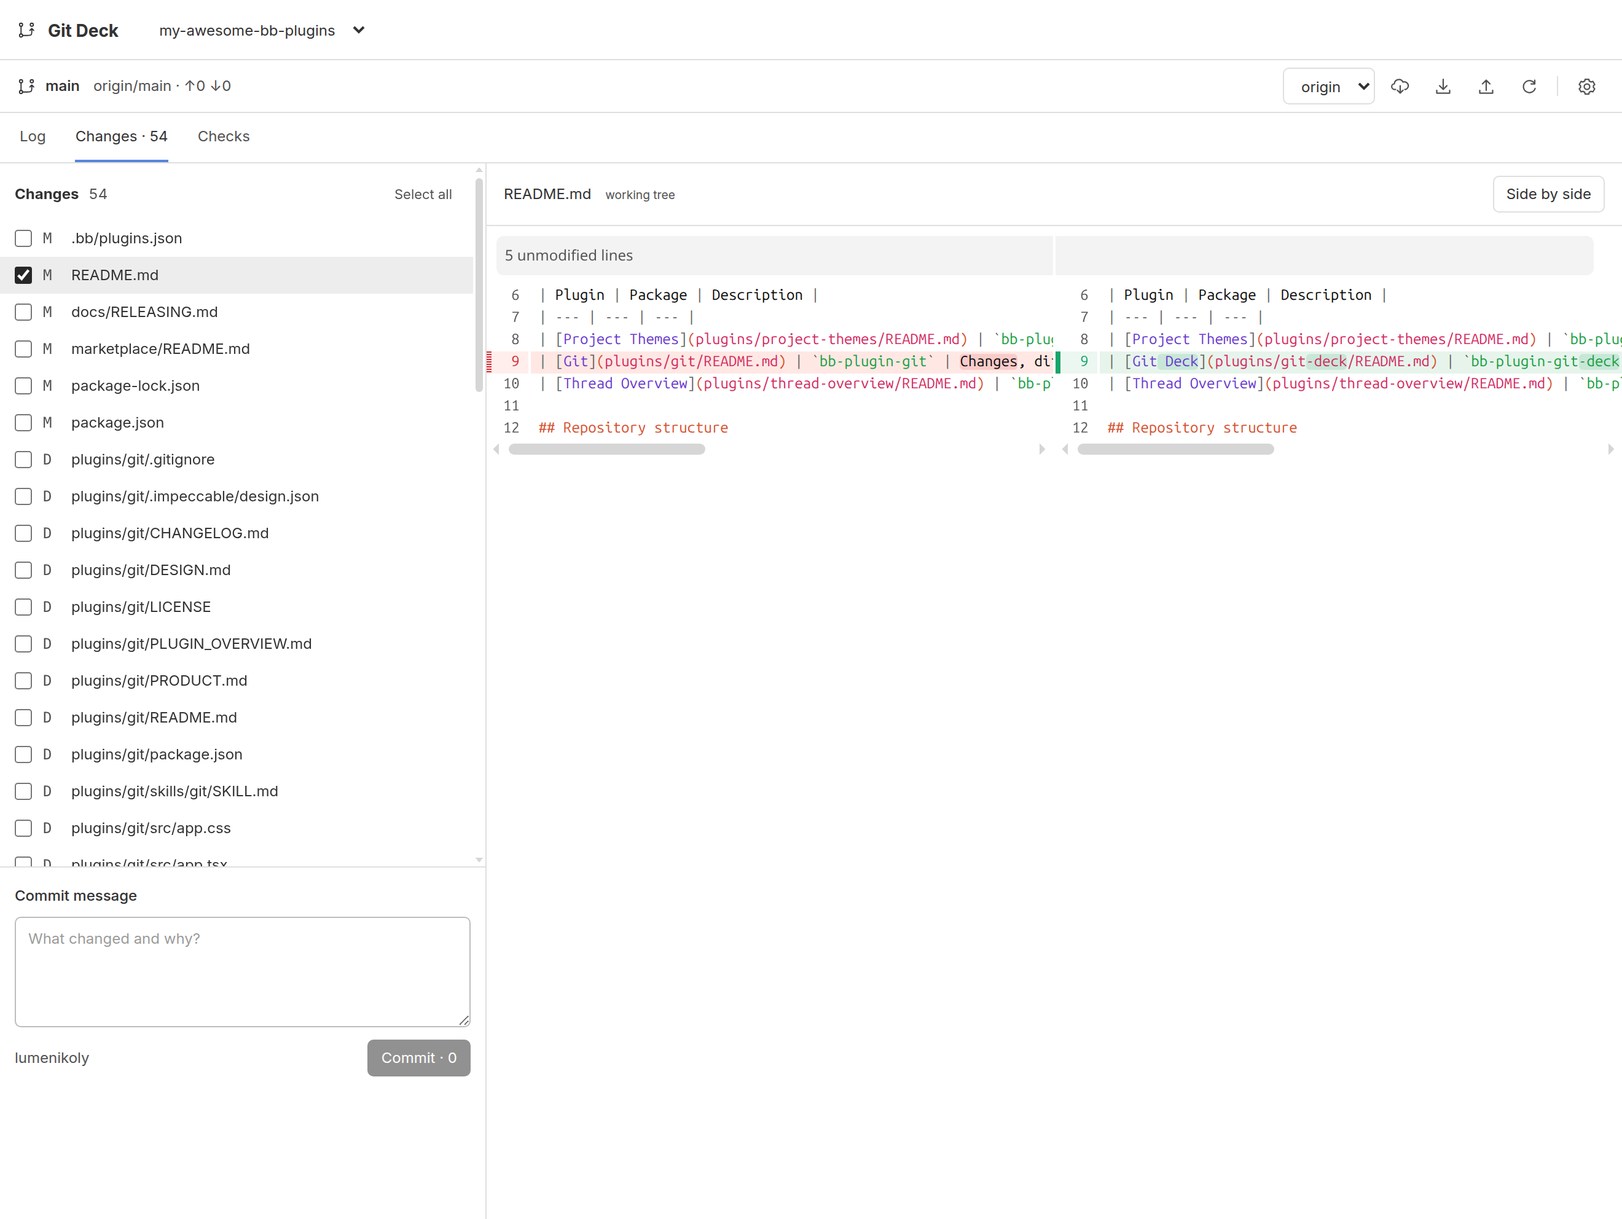
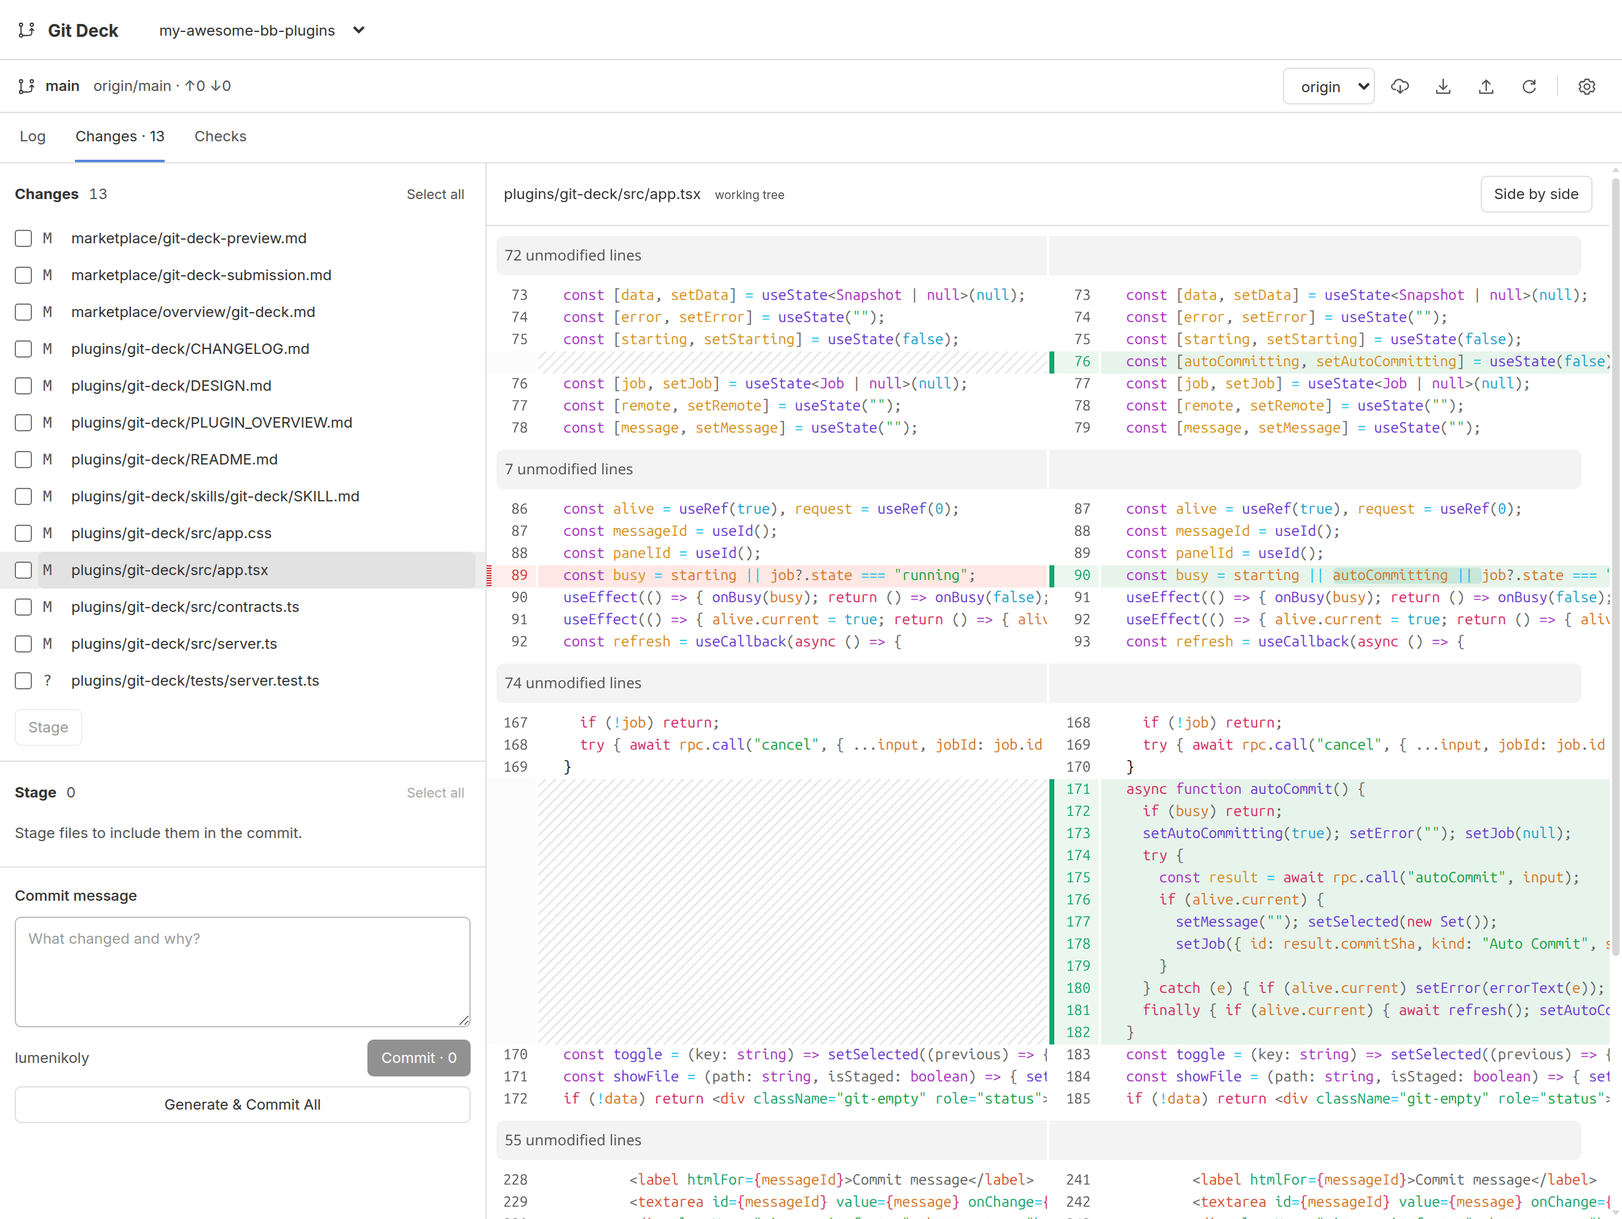
feat(git-deck): add AI-assisted commit of all changes

diff --git a/plugins/git-deck/src/server.ts b/plugins/git-deck/src/server.ts
@@ -5,21 +5,31 @@ export { rpcContract } from "./contracts.ts";
 
 export default function plugin(bb: BbPluginApi) {
   const host = bb.hosts.experimental_client({ contract: hostContract });
+  const mutations = new Set<string>();
+  async function mutate<T>(t: { hostId: string; path: string }, run: () => Promise<T>): Promise<T> {
+    const key = `${t.hostId}\0${t.path}`;
+    if (mutations.has(key)) throw new Error("A Git operation is already starting or running in this checkout. Wait for it to finish.");
+    mutations.add(key);
+    try { return await run(); } finally { mutations.delete(key); }
+  }
   async function targets(projectId: string, threadId?: string): Promise<Target[]> {
     const project = await bb.sdk.projects.get({ projectId });
+    const environments = (await bb.sdk.environments.list({ projectId, status: "ready", limit: 100 }))
+      .filter((e) => e.projectId === projectId && e.path && e.isGitRepo && e.lifecycle.phase === "active");
     const sources: Target[] = project.sources.map((source) => ({
       id: `source:${source.id}`, projectId, hostId: source.hostId, path: source.path,
       label: `${source.isDefault ? "Main checkout" : "Checkout"} · ${source.path}`,
+      canAutoCommit: environments.some((e) => e.hostId === source.hostId && e.path === source.path),
     }));
-    const environments = await bb.sdk.environments.list({ projectId, status: "ready", limit: 100 });
     let currentId: string | null = null;
     if (threadId) {
       const thread = await bb.sdk.threads.get({ threadId });
       if (thread.projectId === projectId) currentId = thread.environmentId;
     }
-    const worktrees: Target[] = environments.filter((e) => e.path && e.isGitRepo && e.lifecycle.phase === "active").map((e) => ({
+    const worktrees: Target[] = environments.map((e) => ({
       id: `environment:${e.id}`, projectId, hostId: e.hostId, path: e.path!,
       label: `${e.id === currentId ? "Current thread" : e.name || e.branchName || "Environment"} · ${e.path}`,
+      canAutoCommit: true,
     }));
     const ordered = [...worktrees.filter((t) => t.id === `environment:${currentId}`), ...sources, ...worktrees];
     return ordered.filter((t, i) => ordered.findIndex((other) => other.hostId === t.hostId && other.path === t.path) === i);
@@ -61,6 +71,25 @@ export default function plugin(bb: BbPluginApi) {
     },
     projects: async () => (await bb.sdk.projects.list()).map(({ id, name }) => ({ id, name })),
     targets: ({ projectId, threadId }) => targets(projectId, threadId),
+    autoCommit: async ({ projectId, targetId }) => {
+      const t = await target(projectId, targetId);
+      return mutate(t, async () => {
+        const state = await host.call("snapshot", { path: t.path }, { hostId: t.hostId });
+        if (state.activeJob) throw new Error("A Git command is already running. Wait for it to finish.");
+        if (state.merging) throw new Error("Complete or abort the merge before an automatic commit.");
+        if (state.changes.some((c) => c.conflict)) throw new Error("Resolve conflicts before committing.");
+        const environmentId = targetId.startsWith("environment:") ? targetId.slice(12)
+          : (await bb.sdk.environments.list({ projectId, status: "ready", path: t.path, limit: 100 }))
+            .find((e) => e.projectId === projectId && e.hostId === t.hostId && e.path === t.path && e.isGitRepo && e.lifecycle.phase === "active")?.id;
+        if (!environmentId) throw new Error("Automatic commits require a checkout associated with a BB chat. Select that checkout or use a manual commit.");
+        const e = await bb.sdk.environments.get({ environmentId });
+        if (e.projectId !== projectId || e.hostId !== t.hostId || e.path !== t.path || e.status !== "ready" || e.lifecycle.phase !== "active" || !e.isGitRepo) {
+          throw new Error("Checkout changed. Refresh before committing.");
+        }
+        const result = await bb.sdk.environments.commit({ environmentId });
+        return { commitSha: result.commitSha, commitSubject: result.commitSubject };
+      });
+    },
     snapshot: async ({ projectId, targetId }) => {
       const t = await target(projectId, targetId);
       return host.call("snapshot", { path: t.path }, { hostId: t.hostId });
@@ -83,7 +112,7 @@ export default function plugin(bb: BbPluginApi) {
     },
     start: async ({ projectId, targetId, action }) => {
       const t = await target(projectId, targetId);
-      return host.call("start", { path: t.path, action }, { hostId: t.hostId });
+      return mutate(t, () => host.call("start", { path: t.path, action }, { hostId: t.hostId }));
     },
     job: async ({ projectId, targetId, jobId }) => {
       const t = await target(projectId, targetId);

diff --git a/plugins/git-deck/src/app.tsx b/plugins/git-deck/src/app.tsx
@@ -73,6 +73,7 @@ function Repository({ rpc, target, threadId, onBusy }: { rpc: Rpc; target: Targe
   const [data, setData] = useState<Snapshot | null>(null);
   const [error, setError] = useState("");
   const [starting, setStarting] = useState(false);
+  const [autoCommitting, setAutoCommitting] = useState(false);
   const [job, setJob] = useState<Job | null>(null);
   const [remote, setRemote] = useState("");
   const [message, setMessage] = useState("");
@@ -86,7 +87,7 @@ function Repository({ rpc, target, threadId, onBusy }: { rpc: Rpc; target: Targe
   const alive = useRef(true), request = useRef(0);
   const messageId = useId();
   const panelId = useId();
-  const busy = starting || job?.state === "running";
+  const busy = starting || autoCommitting || job?.state === "running";
   useEffect(() => { onBusy(busy); return () => onBusy(false); }, [busy, onBusy]);
   useEffect(() => { alive.current = true; return () => { alive.current = false; request.current++; }; }, []);
   const refresh = useCallback(async () => {
@@ -167,6 +168,18 @@ function Repository({ rpc, target, threadId, onBusy }: { rpc: Rpc; target: Targe
     if (!job) return;
     try { await rpc.call("cancel", { ...input, jobId: job.id }); } catch (e) { setError(errorText(e)); }
   }
+  async function autoCommit() {
+    if (busy) return;
+    setAutoCommitting(true); setError(""); setJob(null);
+    try {
+      const result = await rpc.call("autoCommit", input);
+      if (alive.current) {
+        setMessage(""); setSelected(new Set());
+        setJob({ id: result.commitSha, kind: "Auto Commit", state: "done", output: `${result.commitSubject}\n${result.commitSha}`, prompt: null });
+      }
+    } catch (e) { if (alive.current) setError(errorText(e)); }
+    finally { if (alive.current) { await refresh(); setAutoCommitting(false); } }
+  }
   const toggle = (key: string) => setSelected((previous) => { const next = new Set(previous); if (next.has(key)) next.delete(key); else next.add(key); return next; });
   const showFile = (path: string, isStaged: boolean) => { setFile({ path, staged: isStaged }); setTab("diff"); };
   if (!data) return <div className="git-empty" role="status">{error ? <><p className="git-error" role="alert">{error}</p><button onClick={() => { setError(""); void refresh(); }}>Retry</button></> : "Loading Git status…"}</div>;
@@ -228,6 +241,7 @@ function Repository({ rpc, target, threadId, onBusy }: { rpc: Rpc; target: Targe
           <label htmlFor={messageId}>Commit message</label>
           <textarea id={messageId} value={message} onChange={(e) => setMessage(e.target.value)} placeholder="What changed and why?" disabled={busy} rows={4} maxLength={65536} />
           <div className="git-commit-footer"><button type="button" className="git-identity" onClick={() => setTab("account")} title={`${data.config.name} <${data.config.email}>`}>{data.config.name || "Set up author"}</button><button className="git-primary" disabled={busy || !message.trim() || !index.length || !!conflicts.length}>Commit · {index.length}</button></div>
+          <button type="button" className="git-auto-commit" disabled={busy || !target.canAutoCommit || !data.changes.length || !!conflicts.length || data.merging} title={target.canAutoCommit ? "Generate a message using BB's AI service and commit all changed files, including unstaged and new files." : "Select a checkout associated with a BB chat to use automatic commits."} onClick={() => void autoCommit()}>{autoCommitting ? "Committing…" : "Generate & Commit All"}</button>
         </form>
       </aside>
       <main className="git-inspector">
@@ -239,6 +253,7 @@ function Repository({ rpc, target, threadId, onBusy }: { rpc: Rpc; target: Targe
         </div>
       </main>
     </div>
+    {autoCommitting && <div className="git-operation" role="status">Generating a message and committing all changes…</div>}
     {job && <div className="git-operation" aria-live="polite"><div><strong>{job.state === "running" ? `${job.kind}: ${job.prompt ? "waiting for input" : "running…"}` : job.state === "done" ? `${job.kind}: done` : job.state === "cancelled" ? "Operation cancelled" : `${job.kind}: failed`}</strong>{job.state === "running" ? <button onClick={() => void cancel()}>Cancel</button> : <button onClick={() => setJob(null)}>Close</button>}</div>{job.output && <pre>{job.output}</pre>}</div>}
     {job?.prompt && <Credential key={job.prompt.id} job={job} answer={async (value) => { await rpc.call("answer", { ...input, jobId: job.id, promptId: job.prompt!.id, value }); }} cancel={cancel} />}
   </>;

diff --git a/plugins/git-deck/tests/server.test.ts b/plugins/git-deck/tests/server.test.ts
@@ -1,0 +1,62 @@
+import assert from "node:assert/strict";
+import { test } from "node:test";
+import { createFakePluginHost } from "@get-bb/plugin-sdk/testing";
+import plugin from "../src/server.ts";
+import type { Snapshot } from "../src/contracts.ts";
+
+test("automatic commits use BB for the selected checkout and reject mismatches and concurrent mutations", async () => {
+  const source = { id: "main", hostId: "host_work", path: "/repos/work", isDefault: true };
+  const environment = { id: "env_work", projectId: "proj_work", hostId: source.hostId, path: source.path,
+    status: "ready", isGitRepo: true, lifecycle: { phase: "active" } };
+  let environments = [environment], current = environment;
+  const state: Snapshot = { root: source.path, branch: "main", unborn: false, upstream: "", ahead: 0, behind: 0,
+    changes: [{ path: "file.txt", original: null, index: " ", worktree: "M", conflict: false }], refs: [], merging: false,
+    remotes: [], config: { name: "Fixture", email: "fixture@example.test", sshCommand: "", localName: "", localEmail: "", localSshCommand: "" },
+    branches: ["main"], history: [], activeJob: null };
+  const commits: string[] = [], entered = Promise.withResolvers<void>(), release = Promise.withResolvers<void>();
+  let hold = false;
+  const { bb, harness } = createFakePluginHost({
+    pluginId: "git-deck",
+    sdk: {
+      projects: { get: async () => ({ sources: [source] }) },
+      environments: {
+        list: async () => environments,
+        get: async () => current,
+        commit: async ({ environmentId }) => {
+          commits.push(environmentId);
+          if (hold) { entered.resolve(); await release.promise; }
+          return { ok: true, action: "commit", commitSha: "ab".repeat(20), commitSubject: "fix: update fixture", message: "Created commit" };
+        },
+      },
+    },
+    experimental_callHostRpc: async ({ method, hostId, input }) => {
+      assert.equal(method, "snapshot"); assert.equal(hostId, source.hostId); assert.deepEqual(input, { path: source.path });
+      return state;
+    },
+  });
+  try {
+    plugin(bb);
+    const input = { projectId: "proj_work", targetId: "source:main" };
+    const call = () => harness.behavior.callRpc("autoCommit", input);
+    const targets = await harness.behavior.callRpc("targets", { projectId: "proj_work" });
+    assert.equal(targets[0].canAutoCommit, true);
+    const result = await call();
+    assert.equal(result.commitSubject, "fix: update fixture"); assert.deepEqual(commits, [environment.id]);
+    environments = [];
+    await assert.rejects(call(), /associated with a BB chat/);
+    environments = [environment]; current = { ...environment, path: "/repos/other" };
+    await assert.rejects(call(), /Checkout changed/);
+    current = environment; state.activeJob = "existing-job";
+    await assert.rejects(call(), /already running/);
+    state.activeJob = null; state.merging = true;
+    await assert.rejects(call(), /Complete or abort/);
+    state.merging = false;
+    assert.equal(commits.length, 1);
+    hold = true;
+    const pending = call(); await entered.promise;
+    await assert.rejects(call(), /already starting or running/);
+    await assert.rejects(harness.behavior.callRpc("start", { ...input, action: { kind: "stage", paths: ["file.txt"] } }), /already starting or running/);
+    release.resolve(); await pending;
+    assert.deepEqual(commits, [environment.id, environment.id]);
+  } finally { release.resolve(); await harness.lifecycle.dispose(); }
+});

diff --git a/plugins/git-deck/src/contracts.ts b/plugins/git-deck/src/contracts.ts
@@ -89,7 +89,7 @@ export const hostContract = defineRpcContract({
   answer: { input: answerInput, output: z.null() },
   cancel: { input: jobInput, output: z.null() },
 });
-export const targetSchema = z.object({ id: z.string(), projectId: z.string(), hostId: z.string(), path: text, label: z.string() });
+export const targetSchema = z.object({ id: z.string(), projectId: z.string(), hostId: z.string(), path: text, label: z.string(), canAutoCommit: z.boolean().default(false) });
 export type Target = z.infer<typeof targetSchema>;
 const targetInput = z.object({ projectId: z.string(), targetId: z.string() });
 export const rpcContract = defineRpcContract({
@@ -100,6 +100,7 @@ export const rpcContract = defineRpcContract({
   githubFix: { input: targetInput.extend({ ...logFieldsGithub, head: hash }), output: githubFix },
   projects: { input: z.null(), output: z.array(z.object({ id: z.string(), name: z.string() })) },
   targets: { input: z.object({ projectId: z.string(), threadId: z.string().optional() }), output: z.array(targetSchema) },
+  autoCommit: { input: targetInput, output: z.object({ commitSha: hash, commitSubject: z.string().max(65536) }) },
   snapshot: { input: targetInput, output: snapshotSchema },
   log: { input: targetInput.extend(logFields), output: logSchema },
   inspect: { input: targetInput.extend(inspectFields), output: inspectSchema },

diff --git a/plugins/git-deck/src/app.css b/plugins/git-deck/src/app.css
@@ -38,6 +38,7 @@
 .git-commit label { display: block; margin-bottom: 8px; font-size: 12px; font-weight: 500; }
 .git-commit textarea { display: block; resize: vertical; min-height: 90px; max-height: 260px; line-height: 1.5; }
 .git-commit-footer { display: flex; justify-content: space-between; align-items: center; gap: 8px; margin-top: 10px; }
+.git-page .git-auto-commit { width: 100%; margin-top: 8px; font-size: 12px; font-variant-numeric: tabular-nums; }
 .git-page .git-identity { min-width: 0; overflow: hidden; text-overflow: ellipsis; white-space: nowrap; border: 0; padding: 4px 0; color: var(--muted-foreground); font-size: 12px; }
 .git-page .git-primary, .git-credential .git-primary { background: var(--primary); color: var(--primary-foreground); border-color: transparent; white-space: nowrap; }
 .git-page .git-primary:hover, .git-credential .git-primary:hover { opacity: .9; }

diff --git a/plugins/git-deck/DESIGN.md b/plugins/git-deck/DESIGN.md
@@ -133,6 +133,13 @@ Fix it prepares a reviewable request. In a matching thread, the user can add it 
 
 ### Dialogs and operation feedback
 
+Changes keeps manual index commits and adds a full-width secondary **Generate &
+Commit All** button below the commit footer. Its label states the all-files scope;
+the tooltip explains new and unstaged files. BB supplies generation and commit
+behavior. Controls disable while it runs, a bottom status shows progress, and
+success exposes the generated subject and hash. Unsupported checkouts show a
+disabled button with guidance to select a checkout associated with a BB chat.
+
 Branch actions and Git/SSH prompts share native modal styling and explicit labels. New branch offers HEAD and grouped local/remote sources; opening from a row preselects that branch, while opening from a commit preserves its revision. Delete confirmation focuses Cancel and uses Git's merged-history check; checked-out branches are protected. Credential prompts use password inputs where required. Operation output stays in a compact bottom strip; merge recovery uses a muted amber banner and labeled actions.
 
 ## Do's and Don'ts

diff --git a/marketplace/git-deck-submission.md b/marketplace/git-deck-submission.md
@@ -4,7 +4,8 @@ Git Deck adds a Git page and thread panel with a branch browser, commit graph,
 revision details, file diffs, staging, commits and Fetch/Pull/Push. Compact row
 actions offer branch creation, confirmed local deletion and a branch menu; the
 creation dialog includes a source selector. Fetch and Pull prune stale
-remote-tracking branches. Repository-local
+remote-tracking branches. Generate & Commit All invokes BB's native AI-assisted
+commit of all changes for a ready checkout. Repository-local
 author and SSH settings use system Git and OpenSSH. An optional GitHub Actions
 view uses GitHub CLI to inspect failed jobs and prepare editable Fix it requests
 in BB's native composer.
@@ -21,7 +22,7 @@ in BB's native composer.
 
 ## Validation
 
-- Plugin typecheck, four existing integration tests and BB build pass.
+- Plugin typecheck, five focused integration tests and BB build pass.
 - The built npm archive includes the app, server and host bundles and metadata,
   source, skill, license and documentation; tests and screenshots are excluded.
 - Installed in BB under the new ID and verified with real Git and GitHub data.

diff --git a/plugins/git-deck/README.md b/plugins/git-deck/README.md
@@ -72,6 +72,15 @@ copy. Select a file to review a side-by-side or unified diff.
 terminal or another IDE. Git hooks and commit signing run through system Git;
 GPG and pinentry remain system-managed.
 
+**Generate & Commit All** uses BB's built-in commit action: generate a message
+with the service selected in **Settings → AI services → Commit message**, stage
+all changed files (including unstaged and new files), and commit immediately.
+There is no message review step. If AI is disabled or generation fails, BB uses
+`bb: automated commit`. This action requires a ready BB environment for the
+selected checkout; main checkouts work when a BB chat uses that same path.
+The button is disabled during another operation or a merge. The generated
+subject and commit hash appear in the operation output after success.
+
 The toolbar provides Fetch, Pull, Push, Refresh and the **Account and SSH** gear.
 Fetch uses the selected remote. Fetch and Pull prune stale remote-tracking
 branches using Git's standard `--prune` behavior. Pull is fast-forward-only and

diff --git a/plugins/git-deck/skills/git-deck/SKILL.md b/plugins/git-deck/skills/git-deck/SKILL.md
@@ -8,6 +8,13 @@ system Git and has no separate agent tool or CLI command. Use ordinary `git`
 commands in the selected checkout and preserve the existing index: the UI's
 Commit action commits the entire index. Do not stage unrelated changes.
 
+Generate & Commit All is different: it calls BB's native environment commit,
+which stages every change and generates a message using the selected Commit
+message AI service. It commits immediately, with no text review. BB falls back
+to `bb: automated commit` if generation fails or AI is off. Only ready BB
+environments associated with the exact selected checkout can use this action.
+Do not use it when the checkout contains unrelated work.
+
 Commit identity uses local `user.name` and `user.email`. SSH identity follows
 the remote host alias in the checkout host's `~/.ssh/config`, or local
 `core.sshCommand`. These settings are shared across repository worktrees.

diff --git a/plugins/git-deck/CHANGELOG.md b/plugins/git-deck/CHANGELOG.md
@@ -11,6 +11,8 @@ Initial release as **Git Deck**. Plugin ID: `git-deck`.
   and reselecting a branch preserves its commit details.
 - Merge, conflict recovery and abort, branch-tip comparisons, and commit file diffs.
 - File selection, staging, unstaging, commits, and side-by-side or unified diffs.
+- Generate & Commit All uses BB's selected AI service and native commit action
+  for a ready checkout, including unstaged and new files.
 - Fetch and fast-forward-only Pull prune stale remote-tracking branches; regular Push uses standard Git commands.
 - Repository-specific author identity and SSH command settings, system SSH aliases, keys, agent and credential helpers.
 - Interactive passwords, passphrases and SSH host-key confirmation; guidance for HTTPS remotes.

diff --git a/marketplace/git-deck-preview.md b/marketplace/git-deck-preview.md
@@ -52,6 +52,12 @@ the current branch, resolve conflicts in your editor,
 then complete or abort the merge from the panel. Git hooks and signing settings
 continue to apply.
 
+Use **Generate & Commit All** for BB's built-in message generation and immediate
+commit of all changed files, including new and unstaged files. It follows the
+Commit message service in BB's AI services settings and requires a ready BB
+environment for the selected checkout. If AI is off or generation fails, BB
+uses `bb: automated commit`. Manual Commit continues to commit only the index.
+
 ## Accounts and system SSH
 
 Set an author name, email and optional SSH command per repository. Settings are

diff --git a/marketplace/overview/git-deck.md b/marketplace/overview/git-deck.md
@@ -15,6 +15,12 @@ the current branch, resolve conflicts in your editor,
 then complete or abort the merge from the panel. Git hooks and signing settings
 continue to apply.
 
+Use **Generate & Commit All** for BB's built-in message generation and immediate
+commit of all changed files, including new and unstaged files. It follows the
+Commit message service in BB's AI services settings and requires a ready BB
+environment for the selected checkout. If AI is off or generation fails, BB
+uses `bb: automated commit`. Manual Commit continues to commit only the index.
+
 ## Accounts and system SSH
 
 Set an author name, email and optional SSH command per repository. Settings are
